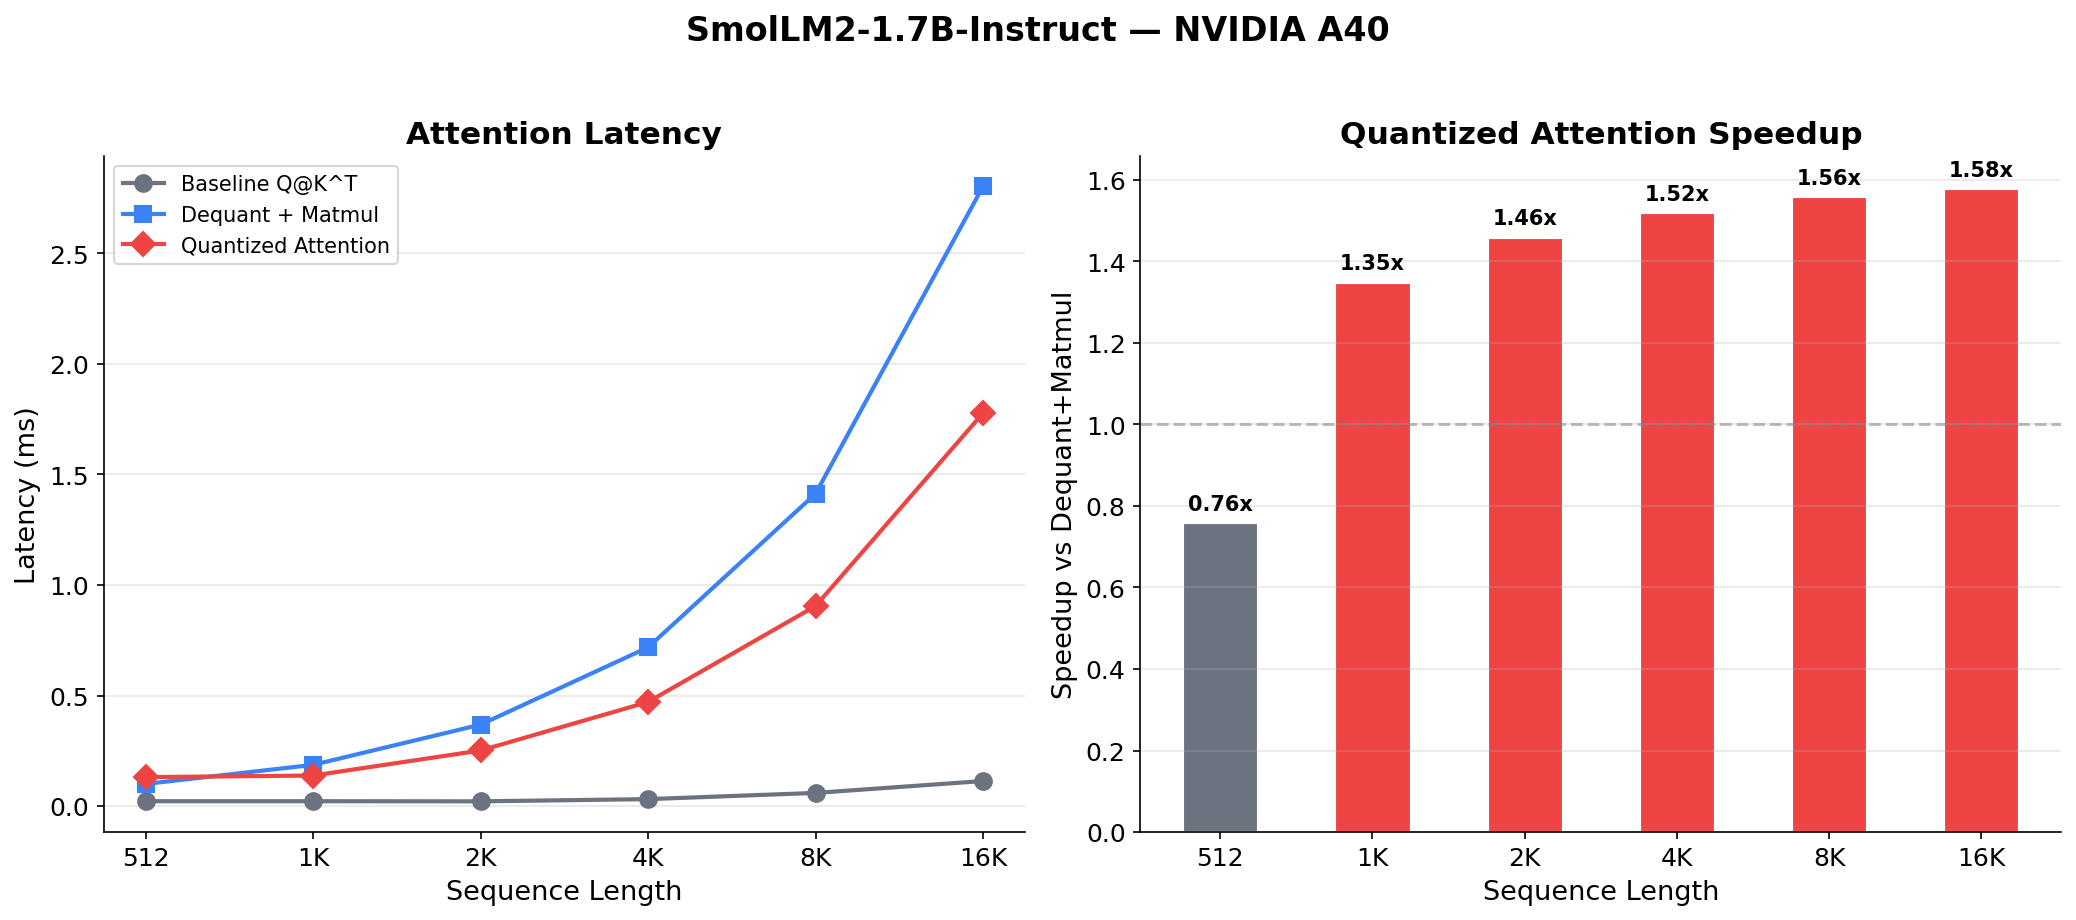
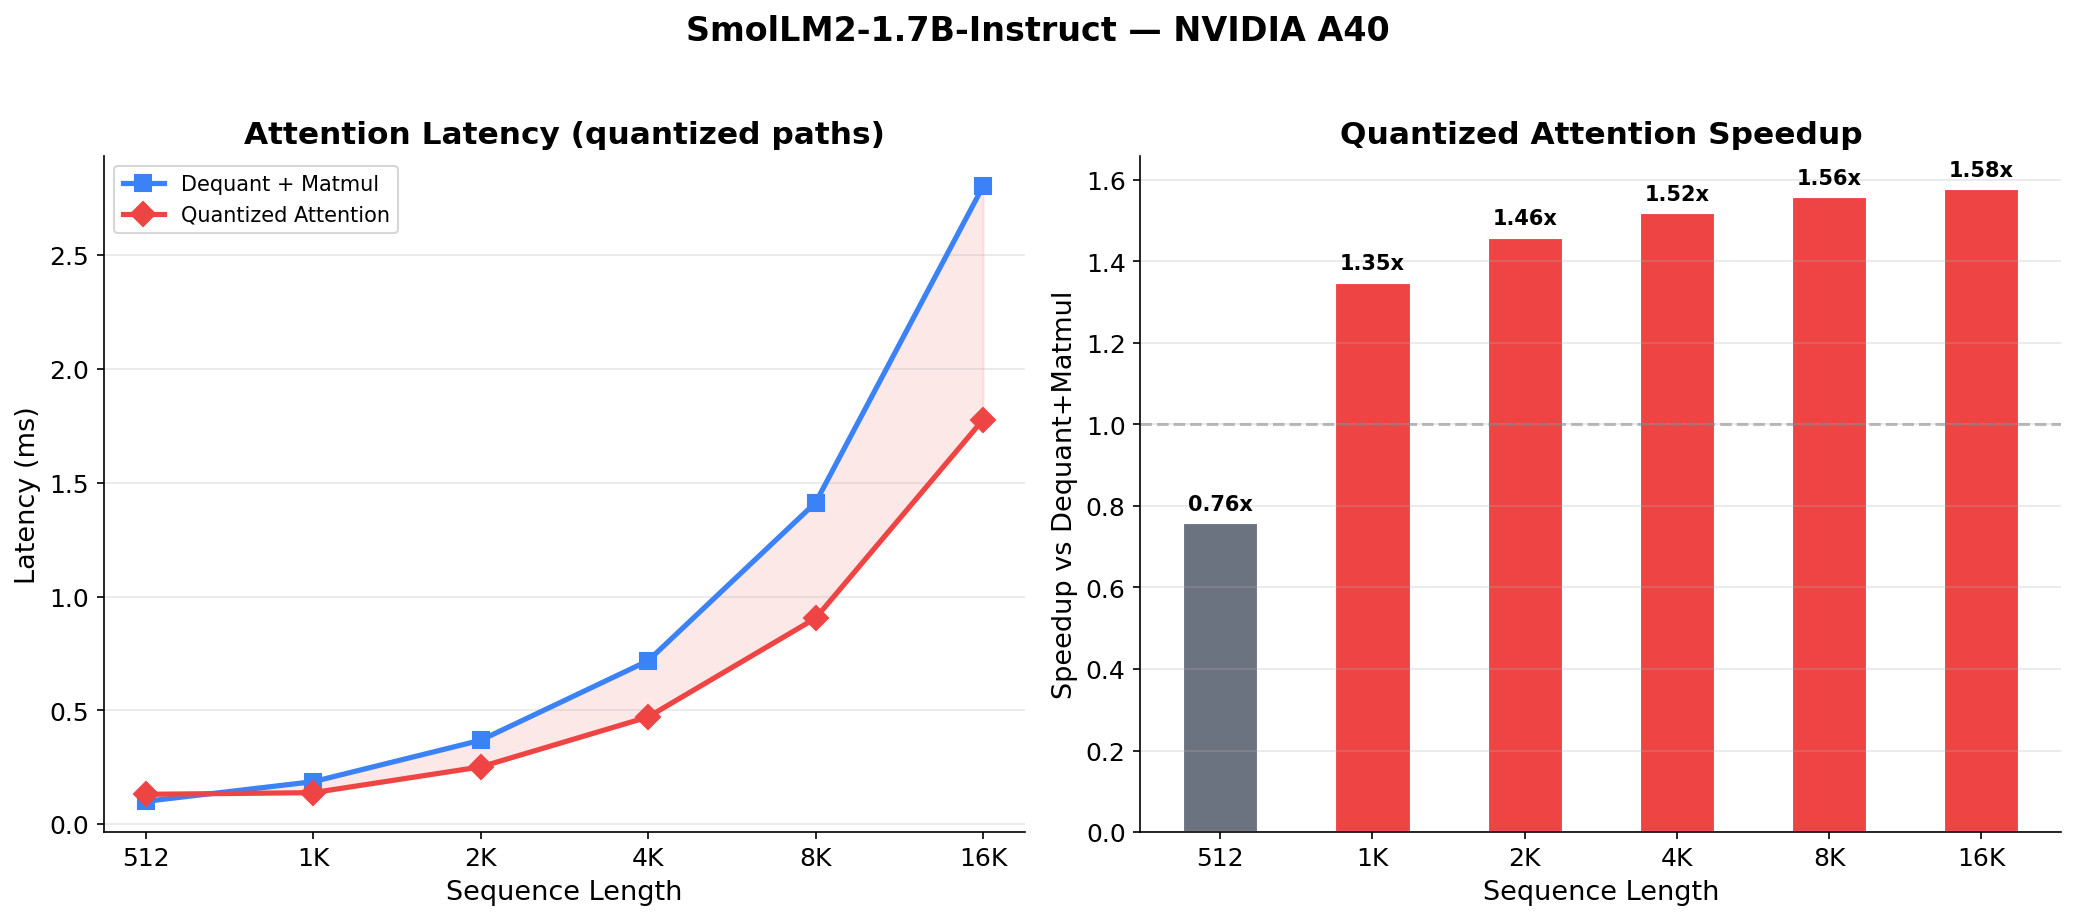
Update attention speedup assets and enhance chart generation
- Replaced existing binary images for attention speedup with updated versions for a100, mistral, and smollm models.
- Modified chart generation script to improve visualization of attention latency, including updated titles and enhanced plotting styles.

diff --git a/scripts/generate_charts.py b/scripts/generate_charts.py
@@ -153,15 +153,15 @@ def chart_attention_speedup(results, model_name, filename):
 
     fig, (ax1, ax2) = plt.subplots(1, 2, figsize=(14, 6))
 
-    ax1.plot(seq_labels, baseline_ms, 'o-', color=COLORS['baseline'], linewidth=2,
-             markersize=8, label='Baseline Q@K^T')
-    ax1.plot(seq_labels, dequant_ms, 's-', color=COLORS['tq4'], linewidth=2,
+    ax1.plot(seq_labels, dequant_ms, 's-', color=COLORS['tq4'], linewidth=2.5,
              markersize=8, label='Dequant + Matmul')
-    ax1.plot(seq_labels, qattn_ms, 'D-', color=COLORS['tq2.5'], linewidth=2,
+    ax1.plot(seq_labels, qattn_ms, 'D-', color=COLORS['tq2.5'], linewidth=2.5,
              markersize=8, label='Quantized Attention')
+    ax1.fill_between(range(len(seq_labels)), dequant_ms, qattn_ms,
+                     alpha=0.12, color=COLORS['tq2.5'])
     ax1.set_xlabel('Sequence Length')
     ax1.set_ylabel('Latency (ms)')
-    ax1.set_title('Attention Latency')
+    ax1.set_title('Attention Latency (quantized paths)')
     ax1.legend(fontsize=10)
     _clean_axes(ax1)
 
